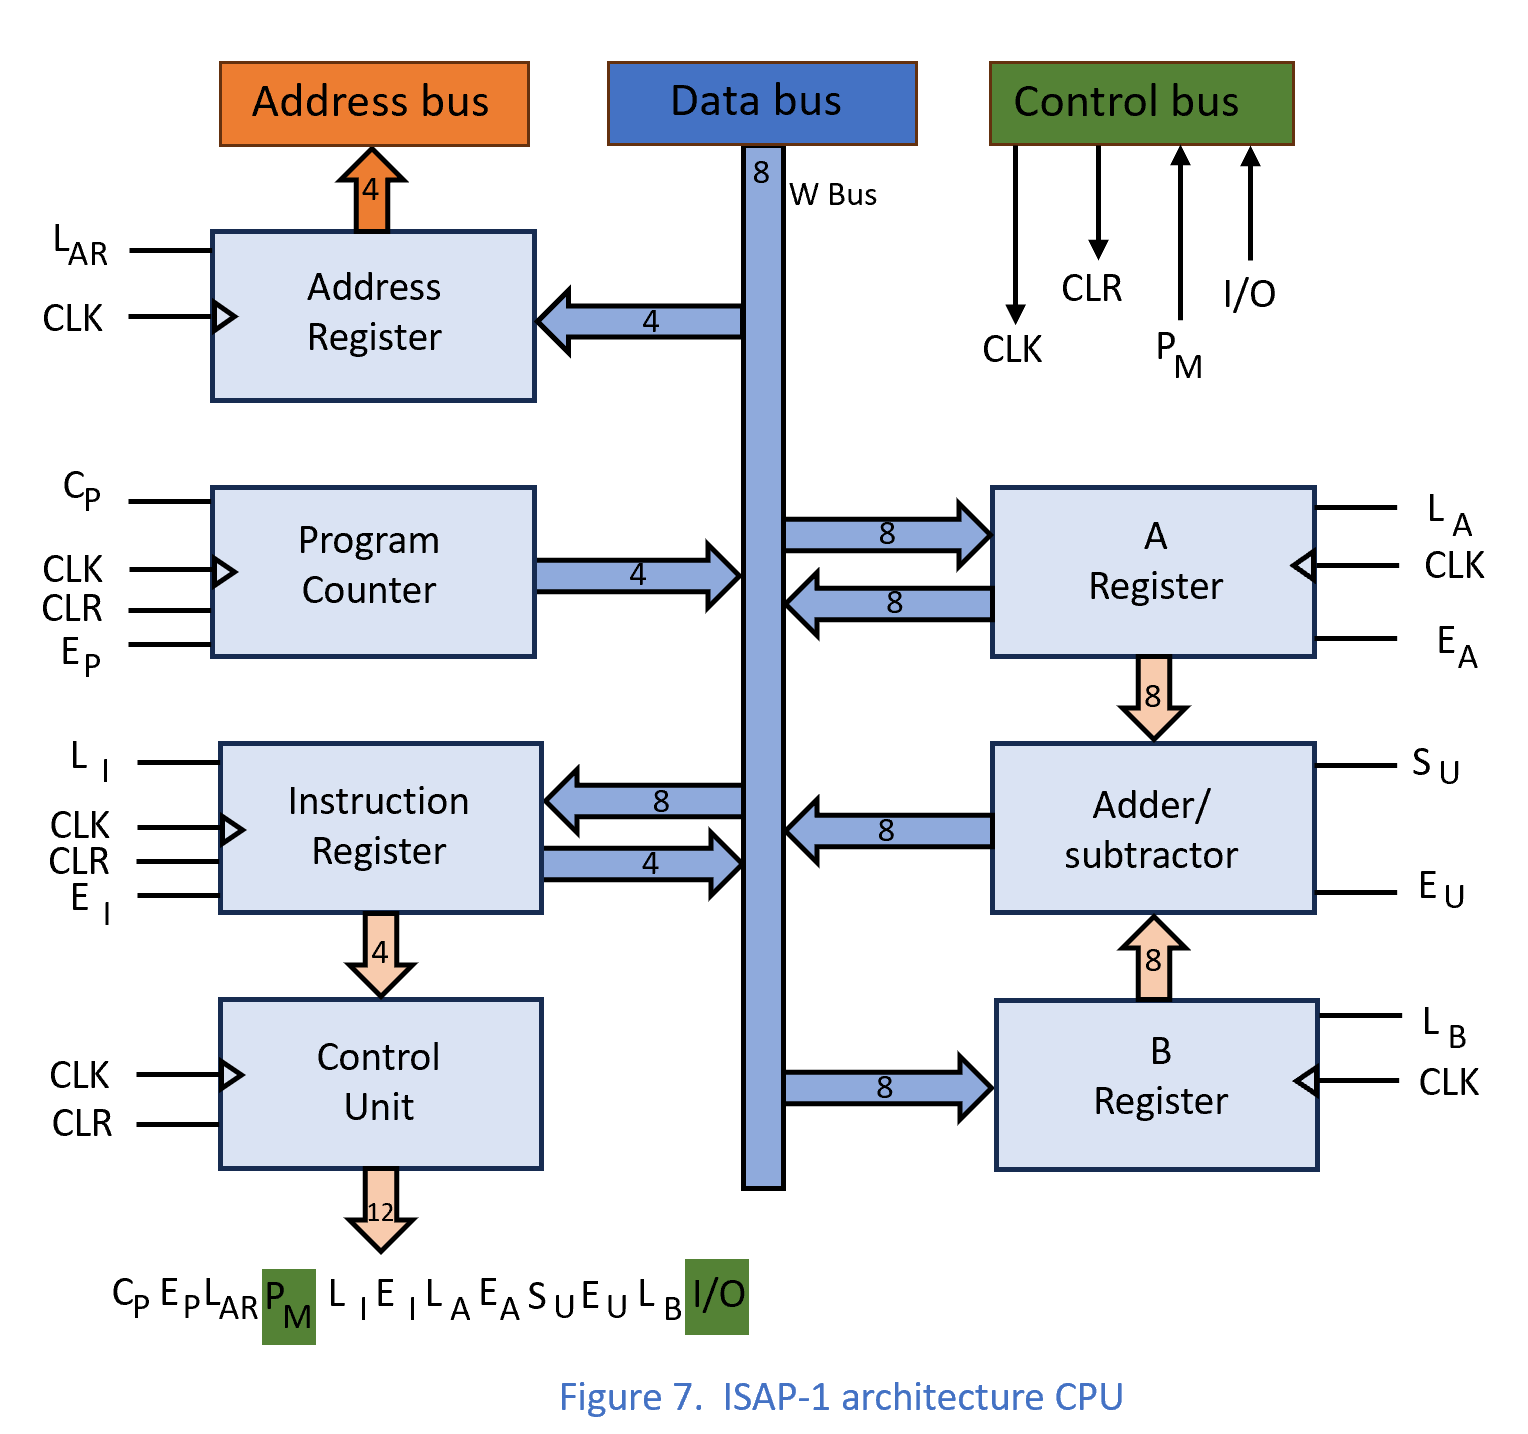
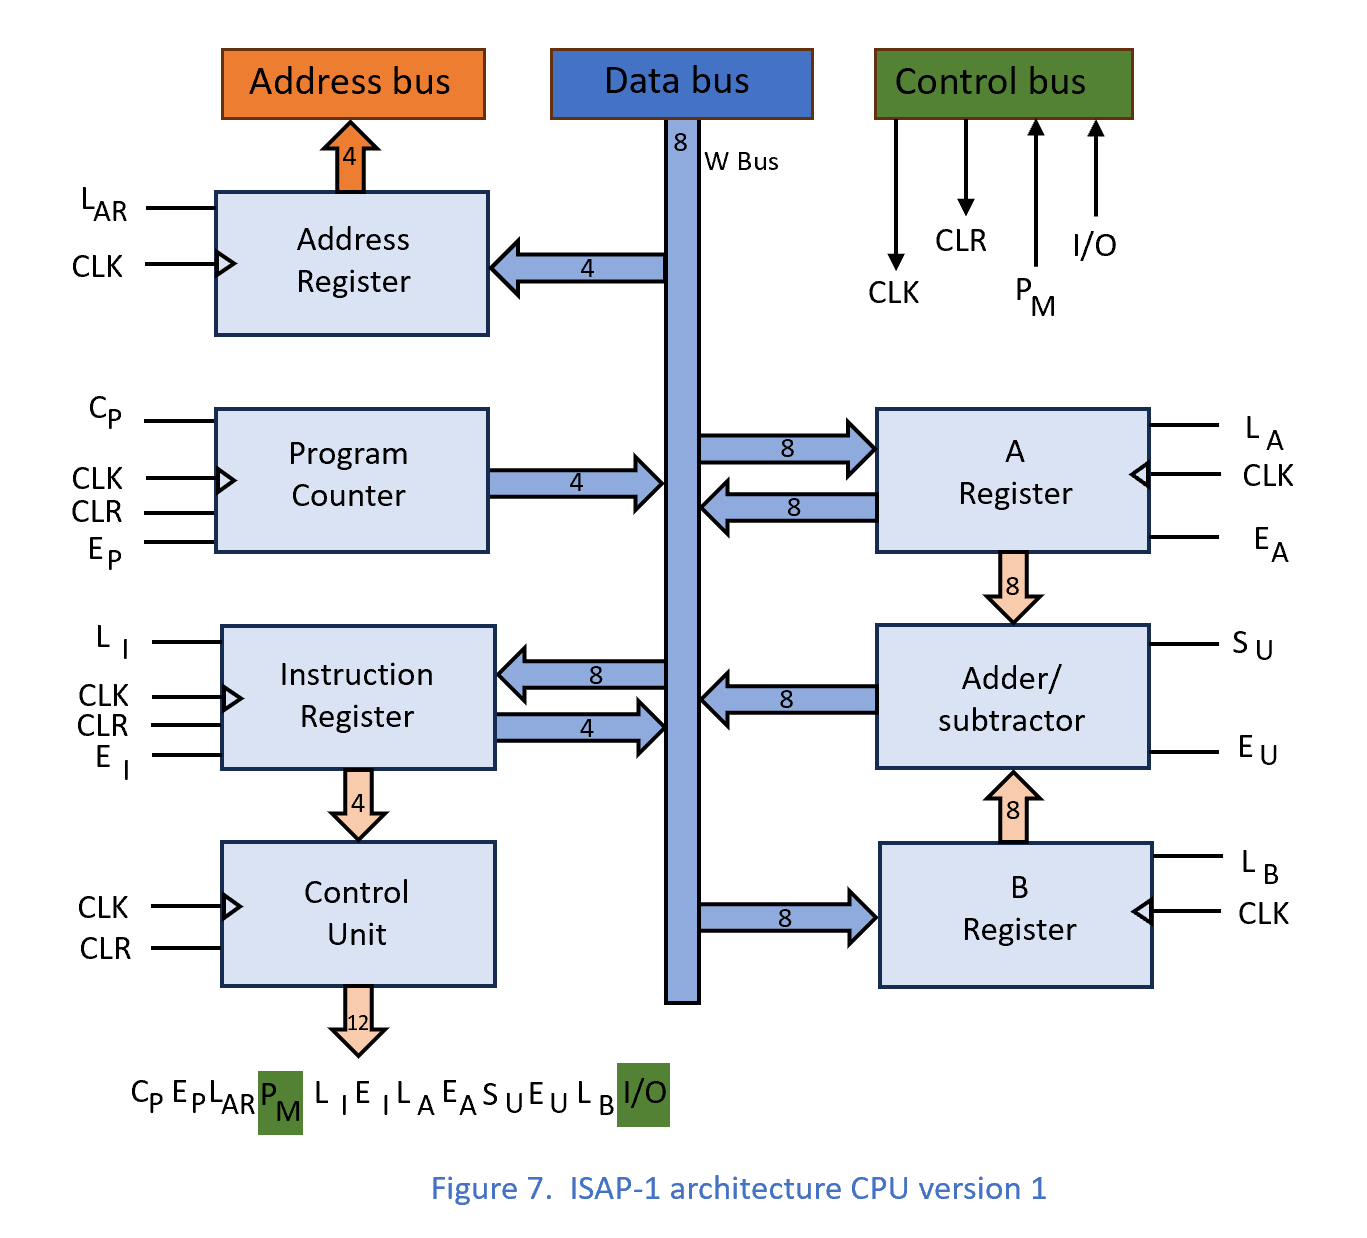
modified:   Pictures/Figure7.png

Changed region(s): [[0.0307, 0.0307, 0.9832, 1.0], [0.7681, 0.2456, 0.7988, 0.2763], [0.7374, 0.2149, 0.7681, 0.2456]]

diff --git a/README.md b/README.md
@@ -89,9 +89,10 @@ The resulting Block Diagram is shown in the following figure
 
 ![ Figure 6 ](/Pictures/Figure6.png)
 
-Now I have renamed the Memory Address Register as the Address Register
+## ISAP-1 Architecture CPU version 1
+In order to highlight the three system buses, we must invert the positions of the Program Counter and the Memory Address Register in the diagram.
 
-In order to be able to highlight the three buses of the system, we must reverse the positions in the diagram of the Program Counter and the Address Register
+Now I have renamed the Memory Address Register as the Address Register
 
 ![ Figure 7 ](/Pictures/Figure7.png)
 
